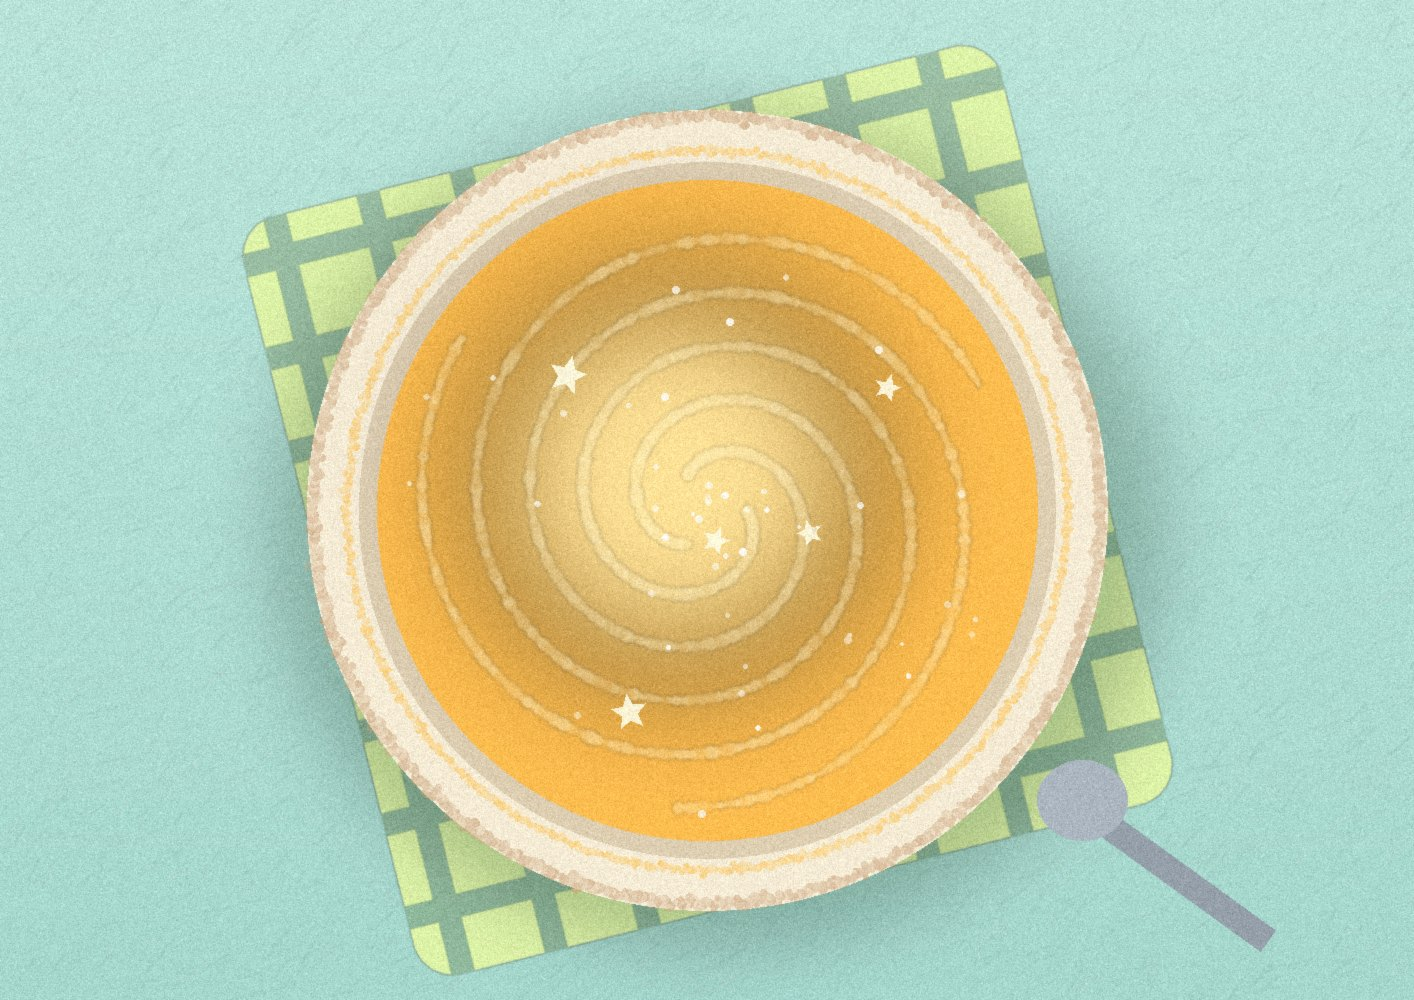
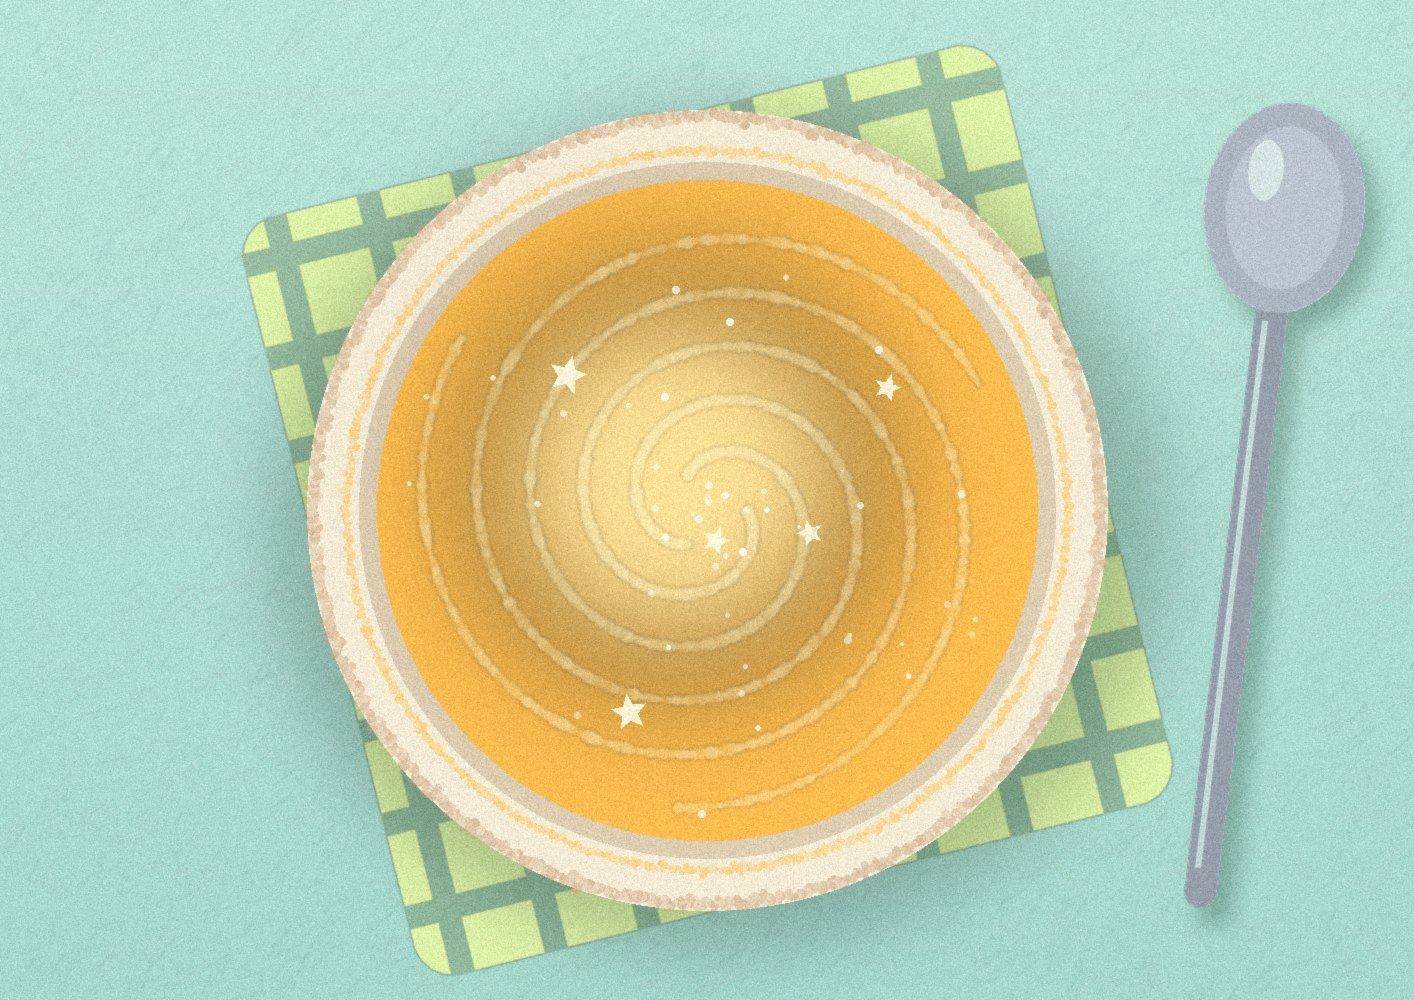
V5.7: 별빛스프 숟가락을 그릇 지름만큼 길게, 그릇 오른쪽에 세워 두기
Claude-Session: https://claude.ai/code/session_01Nbh8N8c4tqUAvigBFfQUWv

Changed region(s): [[0.7157, 0.093, 0.9958, 0.961]]

diff --git a/storybook/index.html b/storybook/index.html
@@ -8,8 +8,8 @@
 <link rel="preconnect" href="https://fonts.googleapis.com">
 <link rel="preconnect" href="https://fonts.gstatic.com" crossorigin>
 <link rel="stylesheet" href="https://fonts.googleapis.com/css2?family=Gowun+Dodum&family=Jua&display=swap">
-<link rel="stylesheet" href="css/style.css?v=5.6">
-<link rel="stylesheet" href="css/editor.css?v=5.6">
+<link rel="stylesheet" href="css/style.css?v=5.7">
+<link rel="stylesheet" href="css/editor.css?v=5.7">
 </head>
 <body>
 <div class="app" id="app" data-screen="cover">
@@ -218,10 +218,10 @@
   </div>
 </div>
 
-<script src="js/storage.js?v=5.6"></script>
-<script src="js/story.js?v=5.6"></script>
-<script src="js/drawing.js?v=5.6"></script>
-<script src="js/weather.js?v=5.6"></script>
-<script src="js/main.js?v=5.6"></script>
+<script src="js/storage.js?v=5.7"></script>
+<script src="js/story.js?v=5.7"></script>
+<script src="js/drawing.js?v=5.7"></script>
+<script src="js/weather.js?v=5.7"></script>
+<script src="js/main.js?v=5.7"></script>
 </body>
 </html>

diff --git a/storybook/js/story.js b/storybook/js/story.js
@@ -408,7 +408,7 @@
   };
 
   window.StarSoup = {
-    version: '5.6',   // 게시할 때마다 0.1씩 올린다 (index.html의 ?v= 와 맞춘다)
+    version: '5.7',   // 게시할 때마다 0.1씩 올린다 (index.html의 ?v= 와 맞춘다)
     cover: cover,
     acts: acts,
     foods: foods,

diff --git a/storybook/tools/soup_top.py b/storybook/tools/soup_top.py
@@ -95,10 +95,20 @@ for i in range(45):
     std.ellipse((x - s, y - s, x + s, y + s), fill=(255, 255, 255, rng.randint(120, 230)))
 img.alpha_composite(st)
 
-# 숟가락 (오른쪽 아래)
-sp = layer(); spd = ImageDraw.Draw(sp)
-spd.line((CX + 380, CY + 300, CX + 560, CY + 430), fill=(150, 160, 170, 255), width=26)
-spd.ellipse((CX + 330, CY + 250, CX + 420, CY + 330), fill=(172, 182, 192, 255))
+# 숟가락: 그릇 지름(800)만큼 긴 숟가락을 그릇 오른쪽에 세로로 살짝 비스듬히
+SL = 800
+spl = Image.new('RGBA', (220, SL + 40), (0, 0, 0, 0)); spd = ImageDraw.Draw(spl)
+spd.rounded_rectangle((94, 150, 126, SL + 20), radius=16, fill=(150, 160, 170, 255))      # 자루
+spd.ellipse((30, 10, 190, 220), fill=(172, 182, 192, 255))                                 # 머리
+spd.ellipse((52, 34, 168, 196), fill=(188, 198, 208, 255))                                 # 오목한 안쪽
+spd.ellipse((70, 50, 104, 110), fill=(236, 242, 246, 200))                                 # 반짝
+spd.line((104, 230, 104, SL - 20), fill=(214, 222, 228, 170), width=6)                     # 자루 빛
+spl = spl.rotate(-7, resample=Image.BICUBIC, expand=True)
+shadow = Image.new('RGBA', spl.size, (40, 80, 60, 0)); shadow.putalpha(spl.getchannel('A').point(lambda v: v * 0.35))
+sp = layer()
+px, py = CX + R_OUT + 140 - spl.width // 2, CY - spl.height // 2
+sp.alpha_composite(shadow.filter(ImageFilter.GaussianBlur(10)), (px + 14, py + 18))
+sp.alpha_composite(spl, (px, py))
 img.alpha_composite(sp)
 
 # 종이 결
